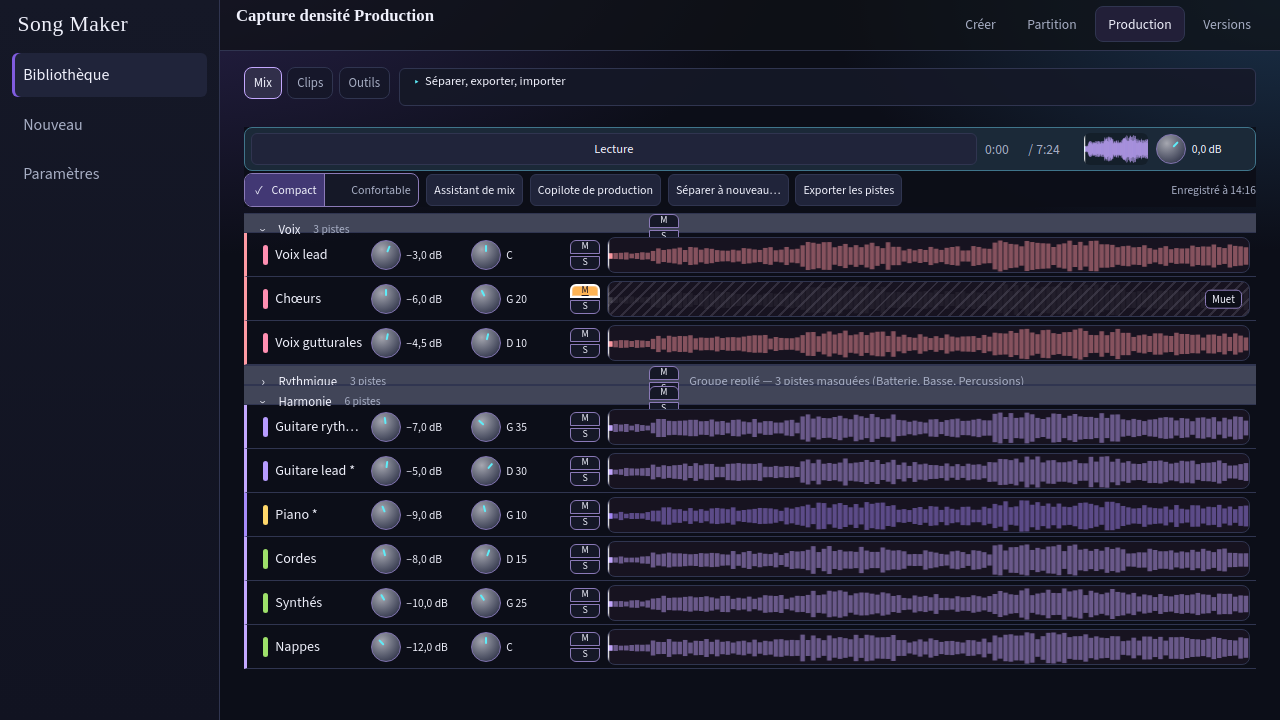
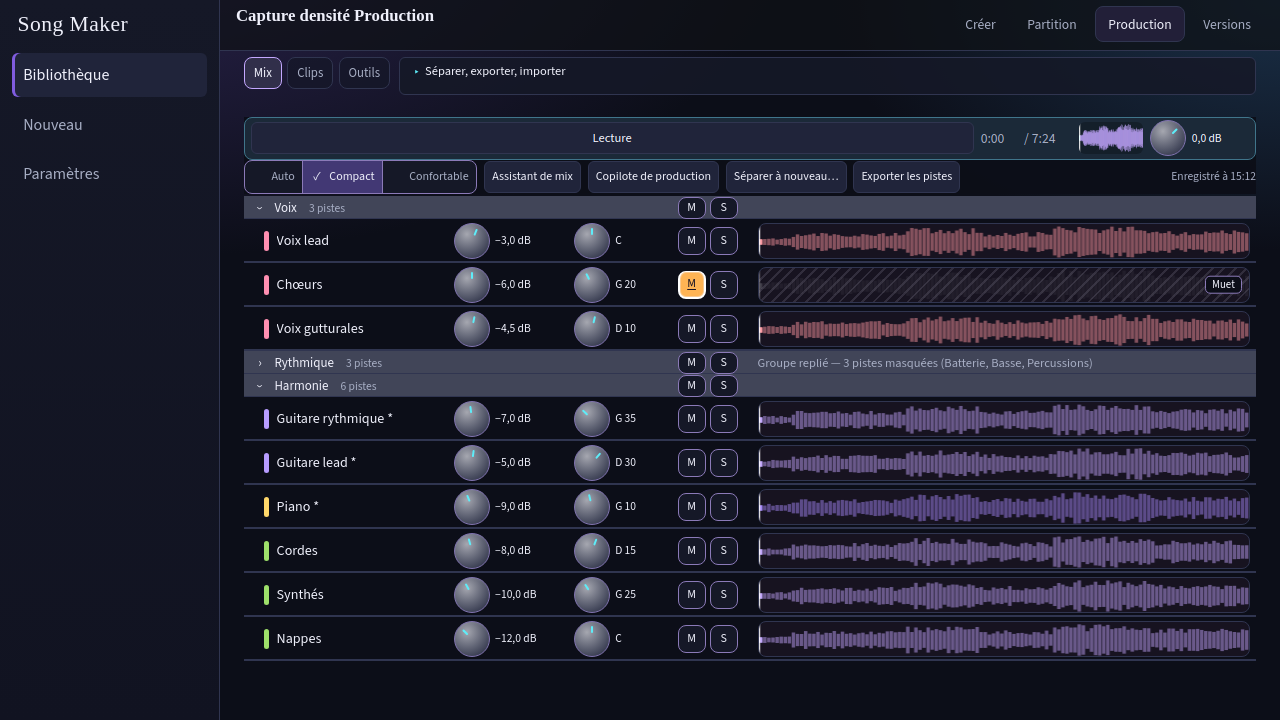
fix(production): chrome mix indépendant + captures #150
Le chrome réduit s’applique dès la vue Mix (pas seulement en compact),
pour qu’Auto reste confortable à 6 pistes. Grille nom 192 px prioritaire
sur `.track`. Captures React 6/16 Auto + métriques M/S/potards.

Changed region(s): [[0.1875, 0.0917, 1.0, 0.9472]]

diff --git a/src/App.css b/src/App.css
@@ -538,6 +538,13 @@ option {
   gap: 0.35rem;
 }
 
+/* Mix : libérer de la hauteur pour densités confortables (Auto / 6 pistes). */
+.song-layout-production-fill:has(.production-workspace-tight) .song-workspace-body {
+  padding-top: 0;
+  padding-bottom: 0;
+  gap: 0.15rem;
+}
+
 .song-layout-production .song-workspace-body {
   padding-top: 0.65rem;
   padding-bottom: 0.75rem;
@@ -818,13 +825,13 @@ option {
   padding: 0;
   display: flex;
   flex-direction: column;
-  gap: 0.15rem;
+  gap: 0;
 }
 
 .production-workspace-tight .production-mix-master.mix-master-banner {
-  min-height: 44px;
-  padding: 0.2rem 0.35rem;
-  gap: 0.35rem 0.5rem;
+  min-height: 40px;
+  padding: 0.15rem 0.35rem;
+  gap: 0.3rem 0.45rem;
 }
 
 .production-workspace-tight .mix-master-play {
@@ -884,6 +891,14 @@ option {
 
 .production-workspace-tight .production-mix-group-count {
   font-size: 0.72rem;
+}
+
+.production-workspace-tight .production-mix-scroll {
+  padding-bottom: 0;
+}
+
+.production-workspace-tight .mixer-density.production-mix-panel {
+  gap: 0.15rem;
 }
 
 .production-workspace #production-panel-mix {
@@ -1027,6 +1042,19 @@ option {
   --sidebar-width: 184px;
 }
 
+.production-workspace-tight .production-density-note {
+  /* Évite une 2ᵉ ligne dans la barre d’outils (coûte de la hauteur de liste). */
+  position: absolute;
+  width: 1px;
+  height: 1px;
+  padding: 0;
+  margin: -1px;
+  overflow: hidden;
+  clip: rect(0, 0, 0, 0);
+  white-space: nowrap;
+  border: 0;
+}
+
 .production-mix-grid {
   display: grid;
   grid-template-columns: 192px 5.5rem 5rem 60px minmax(0, 1fr);
@@ -1034,6 +1062,25 @@ option {
   column-gap: 0.65rem;
   align-items: center;
   padding: 0 0.35rem;
+}
+
+/* Plus spécifique que `.track` (grille legacy) pour les lignes Production. */
+.mixer-density .production-mix-row.track,
+.mixer-density .production-mix-group-header.production-mix-grid,
+.mixer-density .production-mix-colheaders.production-mix-grid {
+  display: grid;
+  grid-template-columns: 192px minmax(5.5rem, 6.75rem) minmax(4.5rem, 5.75rem) 68px minmax(0, 1fr);
+  column-gap: 0.75rem;
+  gap: 0 0.75rem;
+  align-items: center;
+  padding: 0 0.35rem;
+  border-left: 0;
+  min-height: var(--production-row-h, auto);
+}
+
+.mixer-density .production-mix-group-header.production-mix-grid {
+  min-height: var(--production-group-h, 24px);
+  height: var(--production-group-h, 24px);
 }
 
 .production-mix-colheaders {
